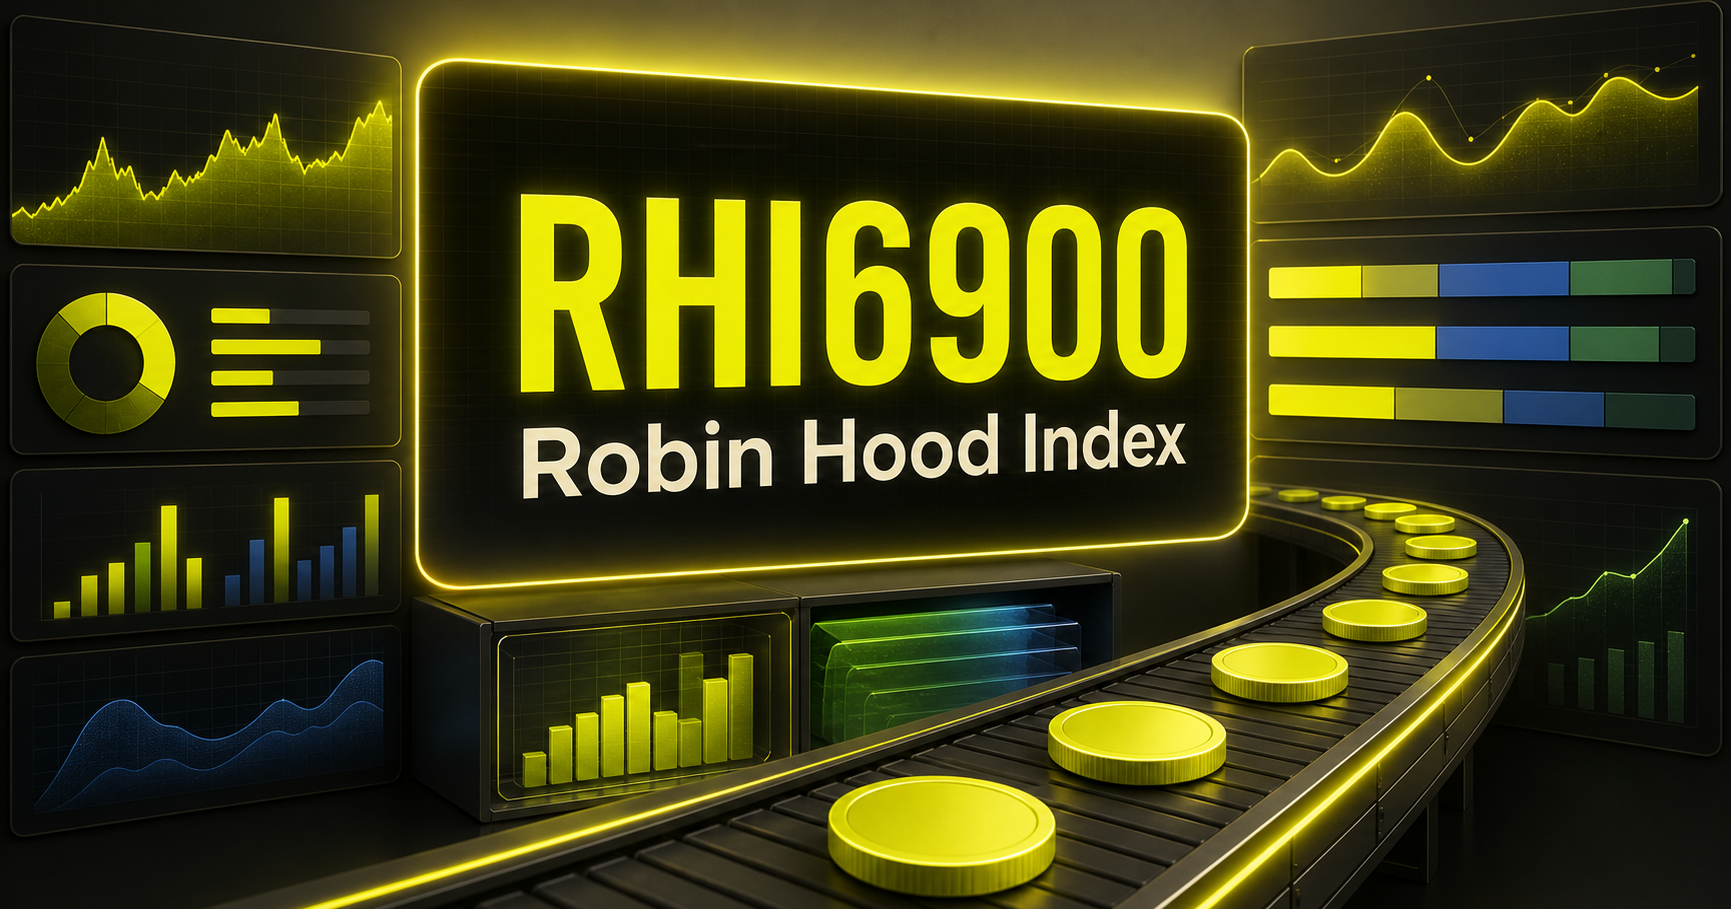
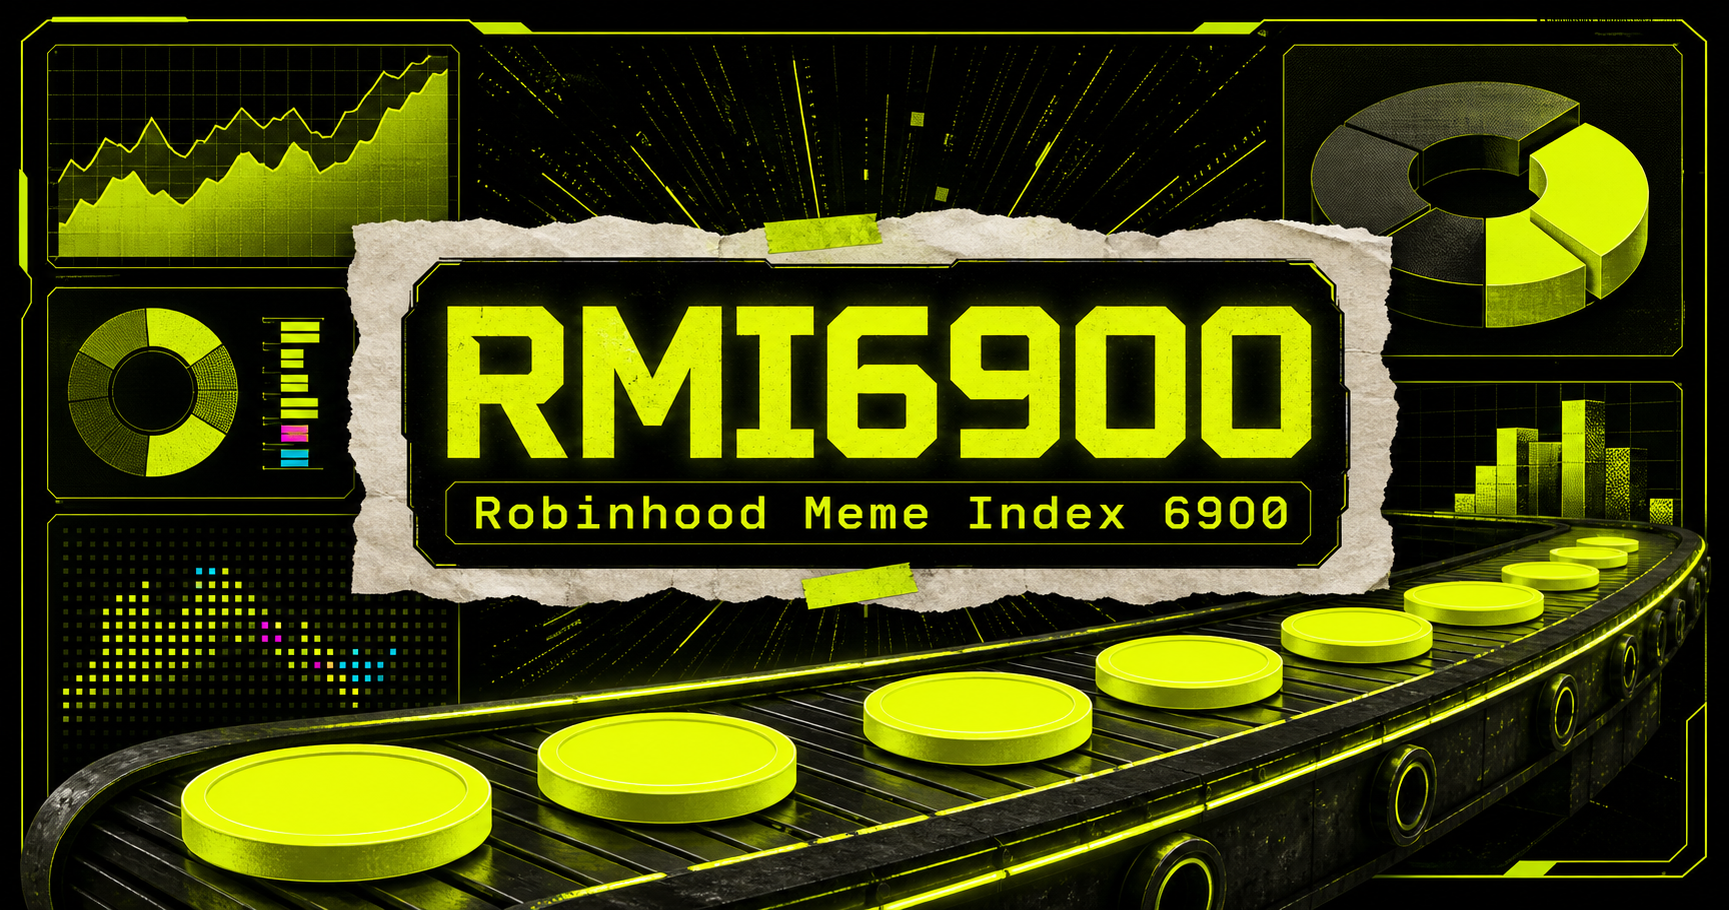
Rename to RMI6900 and tune SPX vibe

diff --git a/app/page.tsx b/app/page.tsx
@@ -18,8 +18,8 @@ type AirdropStep = {
 
 const basket: BasketCoin[] = [
   {
-    symbol: "RHI6900",
-    name: "Robin Hood Index",
+    symbol: "RMI6900",
+    name: "Robinhood Meme Index 6900",
     lane: "Core",
     allocation: "22%",
     thesis: "Holder alignment, meme energy, and the distribution rail.",
@@ -134,14 +134,14 @@ const basket: BasketCoin[] = [
 const steps: AirdropStep[] = [
   {
     number: "01",
-    title: "RHI6900 holders accumulate",
+    title: "RMI6900 holders accumulate",
     body: "Wallet balances define the holder set for each index airdrop cycle.",
     tag: "SNAPSHOT",
   },
   {
     number: "02",
-    title: "The Robin Hood basket is routed",
-    body: "Treasury flow is split across coins we are in, RWA plays, reserves, and high-beta memes.",
+    title: "The meme index basket is routed",
+    body: "Treasury flow is split across coins we are in, RWA plays, reserves, and high-beta meme rails.",
     tag: "CUSTOM INDEX",
   },
   {
@@ -160,7 +160,7 @@ const steps: AirdropStep[] = [
 
 const lanes = [
   { label: "RWA sleeve", value: "29%", copy: "ONDO, LINK, CFG, PYTH" },
-  { label: "Core reserves", value: "31%", copy: "RHI6900, BTC, ETH, SOL" },
+  { label: "Core reserves", value: "31%", copy: "RMI6900, BTC, ETH, SOL" },
   { label: "Meme conveyor", value: "25%", copy: "WIF, BONK, PEPE, POPCAT" },
   { label: "Execution cash", value: "3%", copy: "USDC routing buffer" },
 ];
@@ -173,7 +173,7 @@ const dashboardStats = [
 ];
 
 const dashboardFeed = [
-  { asset: "RHI6900", route: "Core weight", amount: "22.0%", status: "Active" },
+  { asset: "RMI6900", route: "Core weight", amount: "22.0%", status: "Active" },
   { asset: "ONDO", route: "RWA route", amount: "8.0%", status: "Queued" },
   { asset: "WIF", route: "Meme belt", amount: "3.0%", status: "Live" },
   { asset: "BONK", route: "Meme belt", amount: "3.0%", status: "Live" },
@@ -227,8 +227,8 @@ const memeCoins = [
 
 const faqs = [
   {
-    q: "What is RHI6900?",
-    a: "RHI6900 is positioned as a holder-first Robin Hood index token: hold it, and the index mechanics can reward holders with airdropped exposure to the basket.",
+    q: "What is RMI6900?",
+    a: "RMI6900 is positioned as a holder-first Robinhood Meme Index token: hold it, and the index mechanics can reward holders with airdropped exposure to the basket.",
   },
   {
     q: "Is this basket final?",
@@ -240,7 +240,7 @@ const faqs = [
   },
   {
     q: "Why include RWA coins?",
-    a: "The Robin Hood theme works best when the basket is not only meme beta. RWA coins add a tokenized markets sleeve alongside Solana flow, reserves, and culture coins.",
+    a: "The Robinhood Meme Index works best when the basket is not only meme beta. RWA coins add a tokenized markets sleeve alongside Solana flow, reserves, and culture coins.",
   },
 ];
 
@@ -261,14 +261,14 @@ export default function Home() {
     <main>
       <header className="site-header">
         <div className="header-shell">
-          <a className="brand-pill" href="#top" aria-label="RHI6900 home">
+          <a className="brand-pill" href="#top" aria-label="RMI6900 home">
             <span className="brand-mark" aria-hidden="true">
               <span />
               <span />
               <span />
               <span />
             </span>
-            <span>RHI6900</span>
+            <span>RMI6900</span>
           </a>
 
           <nav className="topnav" aria-label="Primary navigation">
@@ -288,11 +288,13 @@ export default function Home() {
       <section className="hero" id="top">
         <div className="hero-body">
           <div className="hero-copy">
-            <div className="eyebrow">/ ROBIN HOOD INDEX /</div>
-            <h1>RHI6900</h1>
+            <div className="eyebrow">/ ROBINHOOD MEME INDEX 6900 /</div>
+            <h1>RMI6900</h1>
+            <div className="manifesto-line">Stop indexing. Believe in memes.</div>
             <p className="hero-lede">
-              A custom holder airdrop index for the coins we are in, real-world
-              asset plays, Solana flow, and high-conviction meme beta.
+              Robinhood Meme Index 6900 is the custom holder airdrop index for
+              coins we are in, real-world asset plays, Solana flow, and
+              high-conviction meme beta.
             </p>
             <div className="hero-actions" aria-label="Primary actions">
               <a className="button button-dark" href="#airdrops">
@@ -309,12 +311,12 @@ export default function Home() {
             </div>
           </div>
 
-          <div className="hero-terminal" aria-label="RHI6900 index dashboard">
+          <div className="hero-terminal" aria-label="RMI6900 index dashboard">
             <div className="browser-bar">
               <span />
               <span />
               <span />
-              <strong>rhi6900.index</strong>
+              <strong>rmi6900.index</strong>
             </div>
             <div className="terminal-content">
               <div className="terminal-total">
@@ -407,7 +409,7 @@ export default function Home() {
           <div className="section-head">
             <div>
               <div className="eyebrow">/ DASHBOARD /</div>
-              <h2>Index-style dashboard for the RHI6900 machine.</h2>
+              <h2>Index-style dashboard for the RMI6900 machine.</h2>
             </div>
             <p>
               A holder-facing control room that makes the index feel live:
@@ -485,8 +487,8 @@ export default function Home() {
               <h2>Built for holders, not a walled garden.</h2>
             </div>
             <p>
-              The old Index site promised direct distributions. RHI6900 keeps
-              that same clear mechanic and reskins it around a Robin Hood crypto
+              The old Index site promised direct distributions. RMI6900 keeps
+              that same clear mechanic and reskins it around a Robinhood meme crypto
               basket.
             </p>
           </div>
@@ -511,7 +513,7 @@ export default function Home() {
               <h2>Coins we are in, plus RWA.</h2>
             </div>
             <p>
-              A launch draft that mixes Robin Hood culture, core crypto assets,
+              A launch draft that mixes Robinhood meme culture, core crypto assets,
               real-world asset rails, Solana flow, and meme-market upside.
             </p>
           </div>
@@ -556,7 +558,7 @@ export default function Home() {
             </div>
             <p>
               The meme sleeve is treated like a moving conveyor: high-beta
-              attention coins rotate through the RHI6900 index without hiding
+              attention coins rotate through the RMI6900 index without hiding
               the core RWA and reserve rails.
             </p>
           </div>
@@ -595,7 +597,7 @@ export default function Home() {
           <div className="section-head">
             <div>
               <div className="eyebrow">/ HOLDER AIRDROPS /</div>
-              <h2>Hold RHI6900. Receive the index.</h2>
+              <h2>Hold RMI6900. Receive the index.</h2>
             </div>
             <p>
               The public-facing flow should stay simple even while the contracts
@@ -623,7 +625,7 @@ export default function Home() {
           <div className="rebalance-panel">
             <div>
               <div className="eyebrow">/ REBALANCE LOGIC /</div>
-              <h2>Robin Hood index, not passive dust.</h2>
+              <h2>Robinhood Meme Index, not passive dust.</h2>
               <p>
                 The basket can be tuned around current conviction: more RWA when
                 tokenized markets are leading, more Solana beta when flow moves
@@ -666,14 +668,14 @@ export default function Home() {
 
       <footer className="site-footer">
         <div className="layout-rail">
-          <a className="brand-pill" href="#top" aria-label="RHI6900 home">
+          <a className="brand-pill" href="#top" aria-label="RMI6900 home">
             <span className="brand-mark" aria-hidden="true">
               <span />
               <span />
               <span />
               <span />
             </span>
-            <span>RHI6900</span>
+            <span>RMI6900</span>
           </a>
           <p>
             Draft allocations shown for site launch. Final airdrop mechanics

diff --git a/app/globals.css b/app/globals.css
@@ -1,8 +1,12 @@
+@import url("https://fonts.googleapis.com/css2?family=Barlow+Condensed:wght@600;700&family=Bebas+Neue&family=Inter:wght@400;500;600;700;800&family=Orbitron:wght@600;700;800;900&family=Space+Mono:wght@400;700&display=swap");
 @import "tailwindcss";
 
 :root {
-  --font-sans: "Instrument Sans", var(--font-geist-sans), "Helvetica Neue",
-    Arial, sans-serif;
+  --font-sans: "Inter", var(--font-geist-sans), "Helvetica Neue", Arial,
+    sans-serif;
+  --font-display: "Orbitron", var(--font-geist-sans), sans-serif;
+  --font-data: "Space Mono", var(--font-geist-mono), monospace;
+  --font-stat: "Bebas Neue", "Barlow Condensed", sans-serif;
   --color-ink: #181815;
   --color-muted: #706f69;
   --color-soft: #99978d;
@@ -103,6 +107,7 @@ main {
   justify-content: center;
   min-height: 52px;
   border-radius: var(--radius-md);
+  font-family: var(--font-data);
   font-size: 12px;
   font-weight: 800;
   letter-spacing: 0.11em;
@@ -142,6 +147,7 @@ main {
   gap: clamp(18px, 3vw, 34px);
   min-width: 0;
   color: var(--color-muted);
+  font-family: var(--font-data);
   font-size: 12px;
   font-weight: 700;
 }
@@ -184,6 +190,7 @@ main {
 
 .eyebrow {
   color: #788500;
+  font-family: var(--font-data);
   font-size: 11px;
   font-weight: 800;
   letter-spacing: 0.16em;
@@ -194,11 +201,29 @@ main {
 .hero h1 {
   margin: 18px 0 0;
   color: var(--color-ink);
+  font-family: var(--font-display);
   font-size: clamp(64px, 9vw, 126px);
-  font-weight: 700;
+  font-weight: 900;
   letter-spacing: 0;
   line-height: 0.92;
   text-shadow: 0 0 34px rgba(232, 255, 23, 0.42);
+}
+
+.manifesto-line {
+  display: inline-flex;
+  align-items: center;
+  min-height: 44px;
+  margin-top: 18px;
+  border: 2px solid var(--color-ink);
+  padding: 0 14px;
+  background: var(--color-neon);
+  color: var(--color-ink);
+  box-shadow: 5px 5px 0 var(--color-ink);
+  font-family: var(--font-data);
+  font-size: clamp(12px, 1.3vw, 15px);
+  font-weight: 900;
+  letter-spacing: 0.08em;
+  text-transform: uppercase;
 }
 
 .hero-lede {
@@ -297,6 +322,7 @@ main {
 .browser-bar strong {
   margin-left: 6px;
   color: #596200;
+  font-family: var(--font-data);
   font-size: 11px;
   font-weight: 800;
   letter-spacing: 0.1em;
@@ -328,7 +354,8 @@ main {
 .terminal-total strong {
   display: block;
   margin-top: 10px;
-  font-size: clamp(42px, 5vw, 58px);
+  font-family: var(--font-stat);
+  font-size: clamp(54px, 6vw, 76px);
   font-weight: 800;
   letter-spacing: 0;
   line-height: 0.95;
@@ -363,6 +390,7 @@ main {
 .terminal-metrics strong {
   display: block;
   margin-top: 8px;
+  font-family: var(--font-display);
   font-size: 24px;
   font-weight: 800;
 }
@@ -425,6 +453,7 @@ main {
 }
 
 .panel-head b {
+  font-family: var(--font-data);
   font-size: 12px;
   font-weight: 800;
 }
@@ -556,6 +585,7 @@ main {
 .section h2 {
   max-width: 780px;
   margin: 14px 0 0;
+  font-family: var(--font-display);
   font-size: clamp(34px, 4vw, 58px);
   font-weight: 600;
   letter-spacing: 0;
@@ -695,7 +725,8 @@ main {
   display: block;
   margin-top: 24px;
   color: var(--color-ink);
-  font-size: clamp(30px, 3.5vw, 48px);
+  font-family: var(--font-stat);
+  font-size: clamp(42px, 5vw, 66px);
   font-weight: 700;
   letter-spacing: 0;
   line-height: 0.95;
@@ -804,6 +835,7 @@ main {
 
 .feed-item b {
   display: block;
+  font-family: var(--font-display);
   font-size: 14px;
   font-weight: 900;
 }

diff --git a/app/layout.tsx b/app/layout.tsx
@@ -13,9 +13,9 @@ const geistMono = Geist_Mono({
   subsets: ["latin"],
 });
 
-const siteTitle = "RHI6900 | Robin Hood Index";
+const siteTitle = "RMI6900 | Robinhood Meme Index 6900";
 const siteDescription =
-  "A neon Robin Hood-style holder airdrop index for RHI6900, conviction coins, RWA assets, and meme-belt crypto exposure.";
+  "A neon Robinhood Meme Index-style holder airdrop index for RMI6900, conviction coins, RWA assets, and meme-belt crypto exposure.";
 
 export async function generateMetadata(): Promise<Metadata> {
   const requestHeaders = await headers();
@@ -37,13 +37,13 @@ export async function generateMetadata(): Promise<Metadata> {
     openGraph: {
       title: siteTitle,
       description:
-        "Hold RHI6900 and follow a neon custom Robin Hood index with a dashboard, RWA sleeve, and meme conveyor.",
+        "Hold RMI6900 and follow a neon custom Robinhood Meme Index with a dashboard, RWA sleeve, and meme conveyor.",
       images: [
         {
           url: "/og.png",
           width: 1200,
           height: 630,
-          alt: "RHI6900 Robin Hood Index social preview",
+          alt: "RMI6900 Robinhood Meme Index 6900 social preview",
         },
       ],
     },